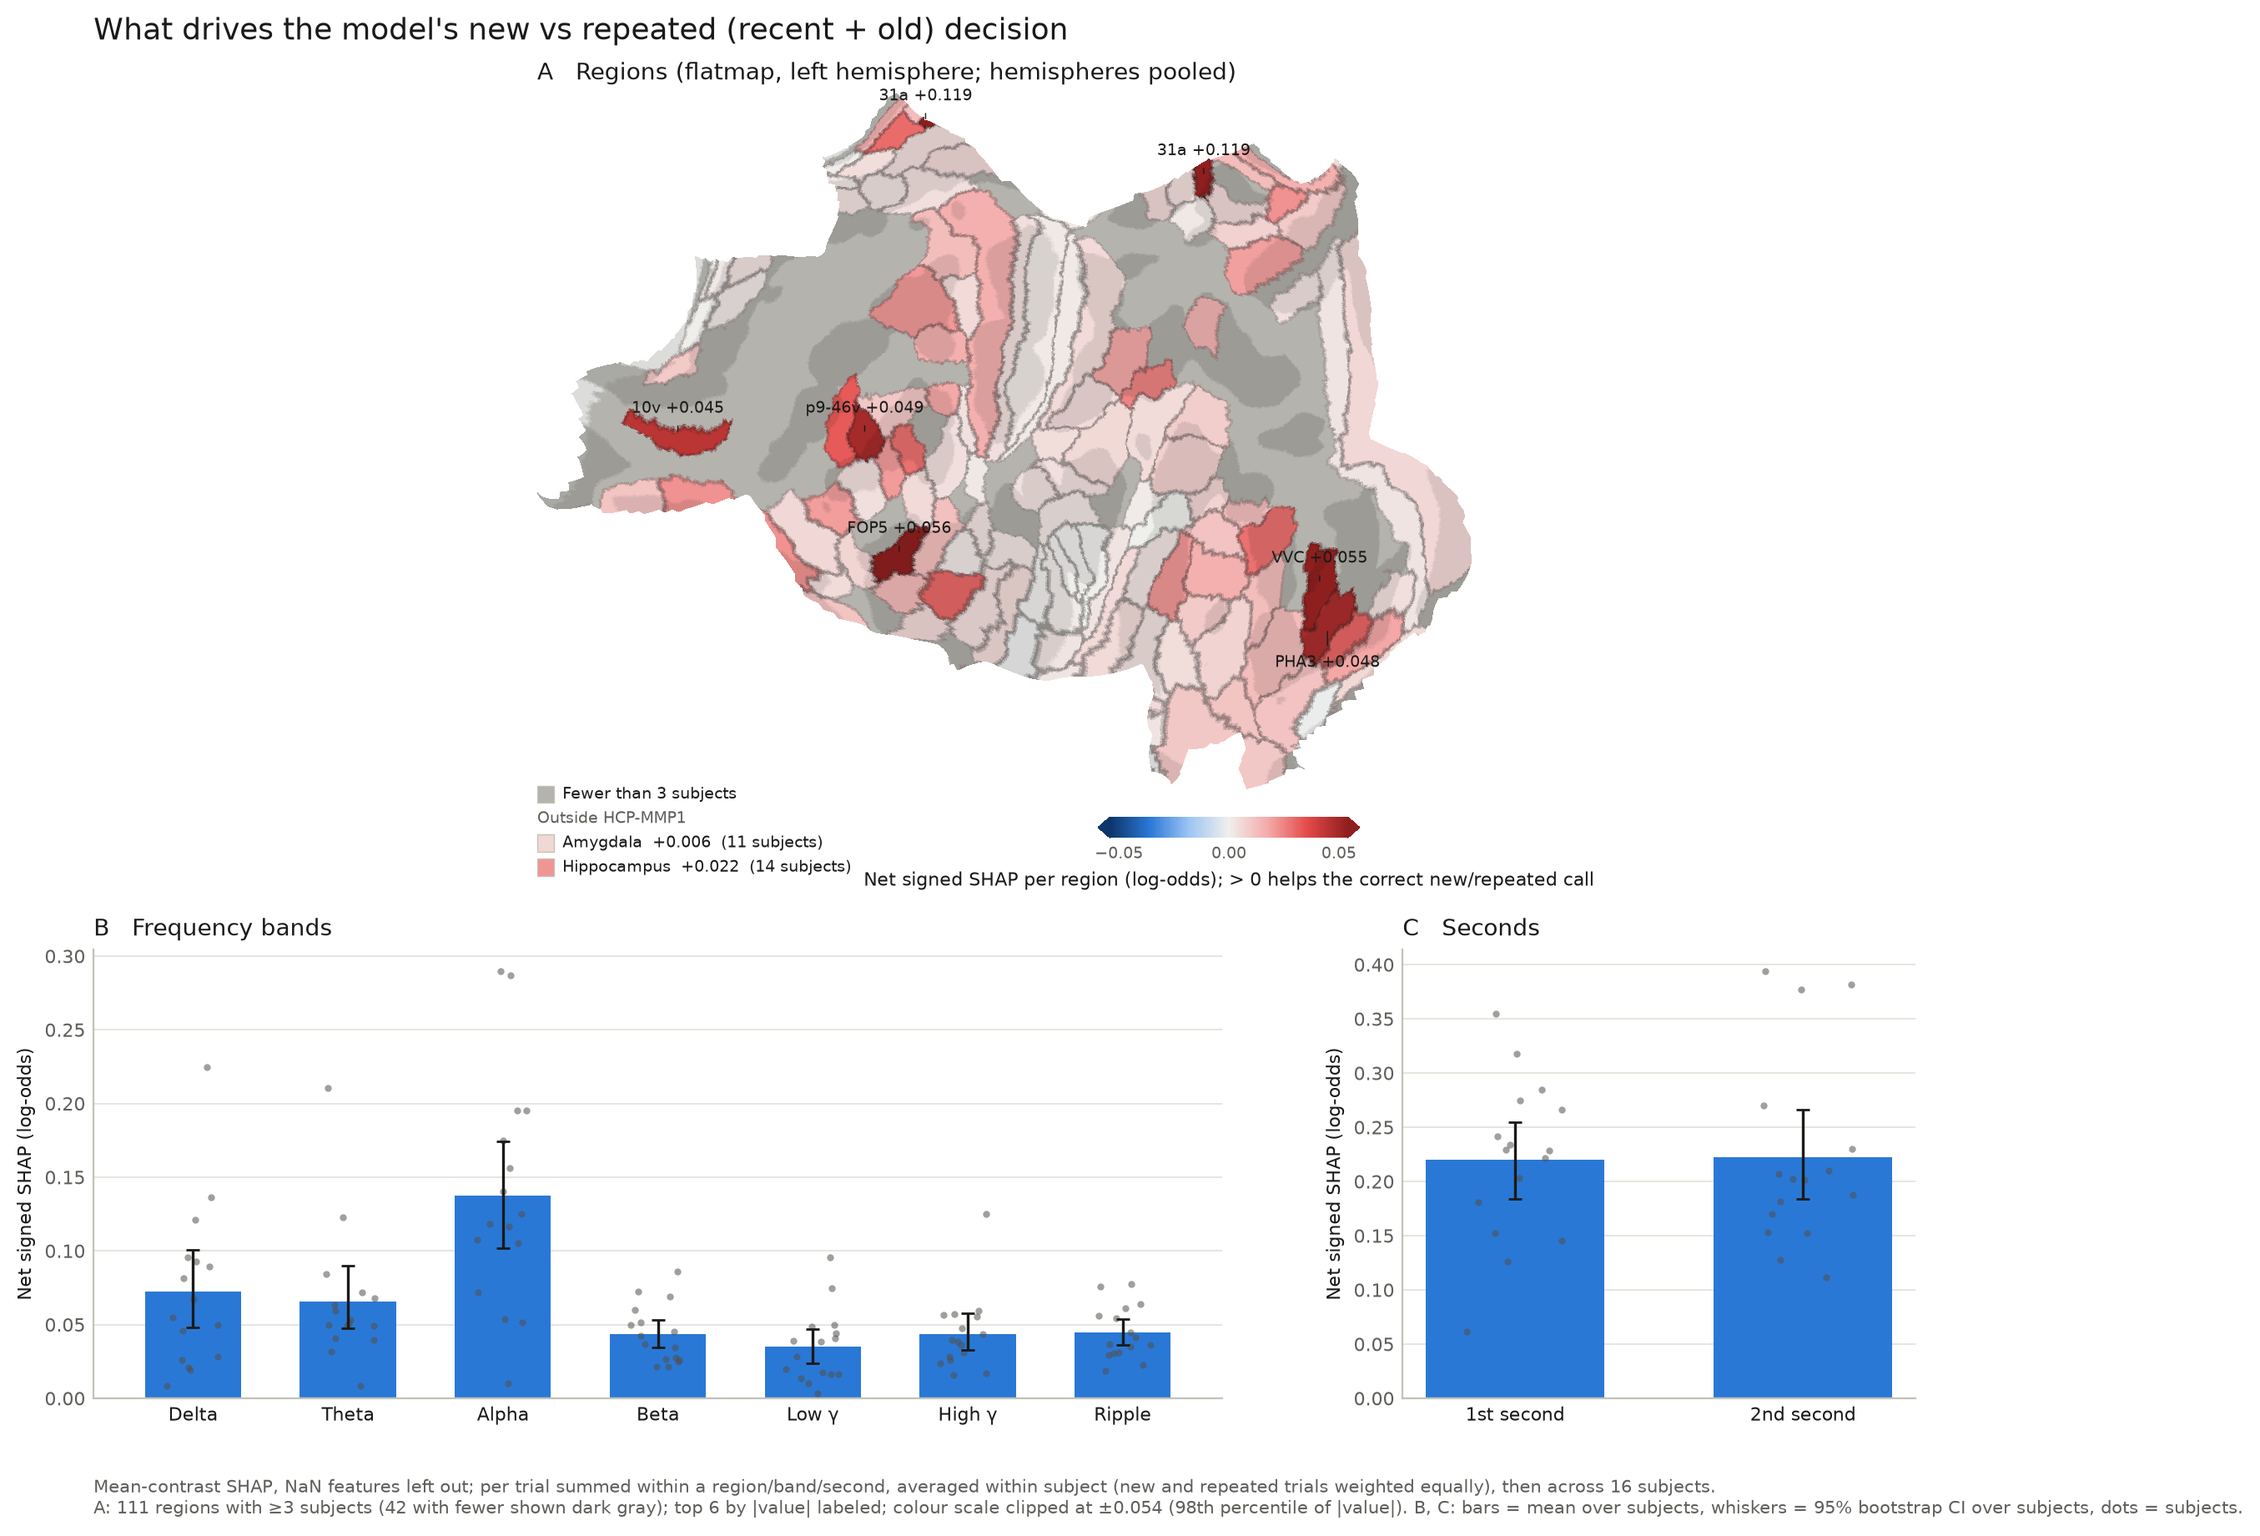
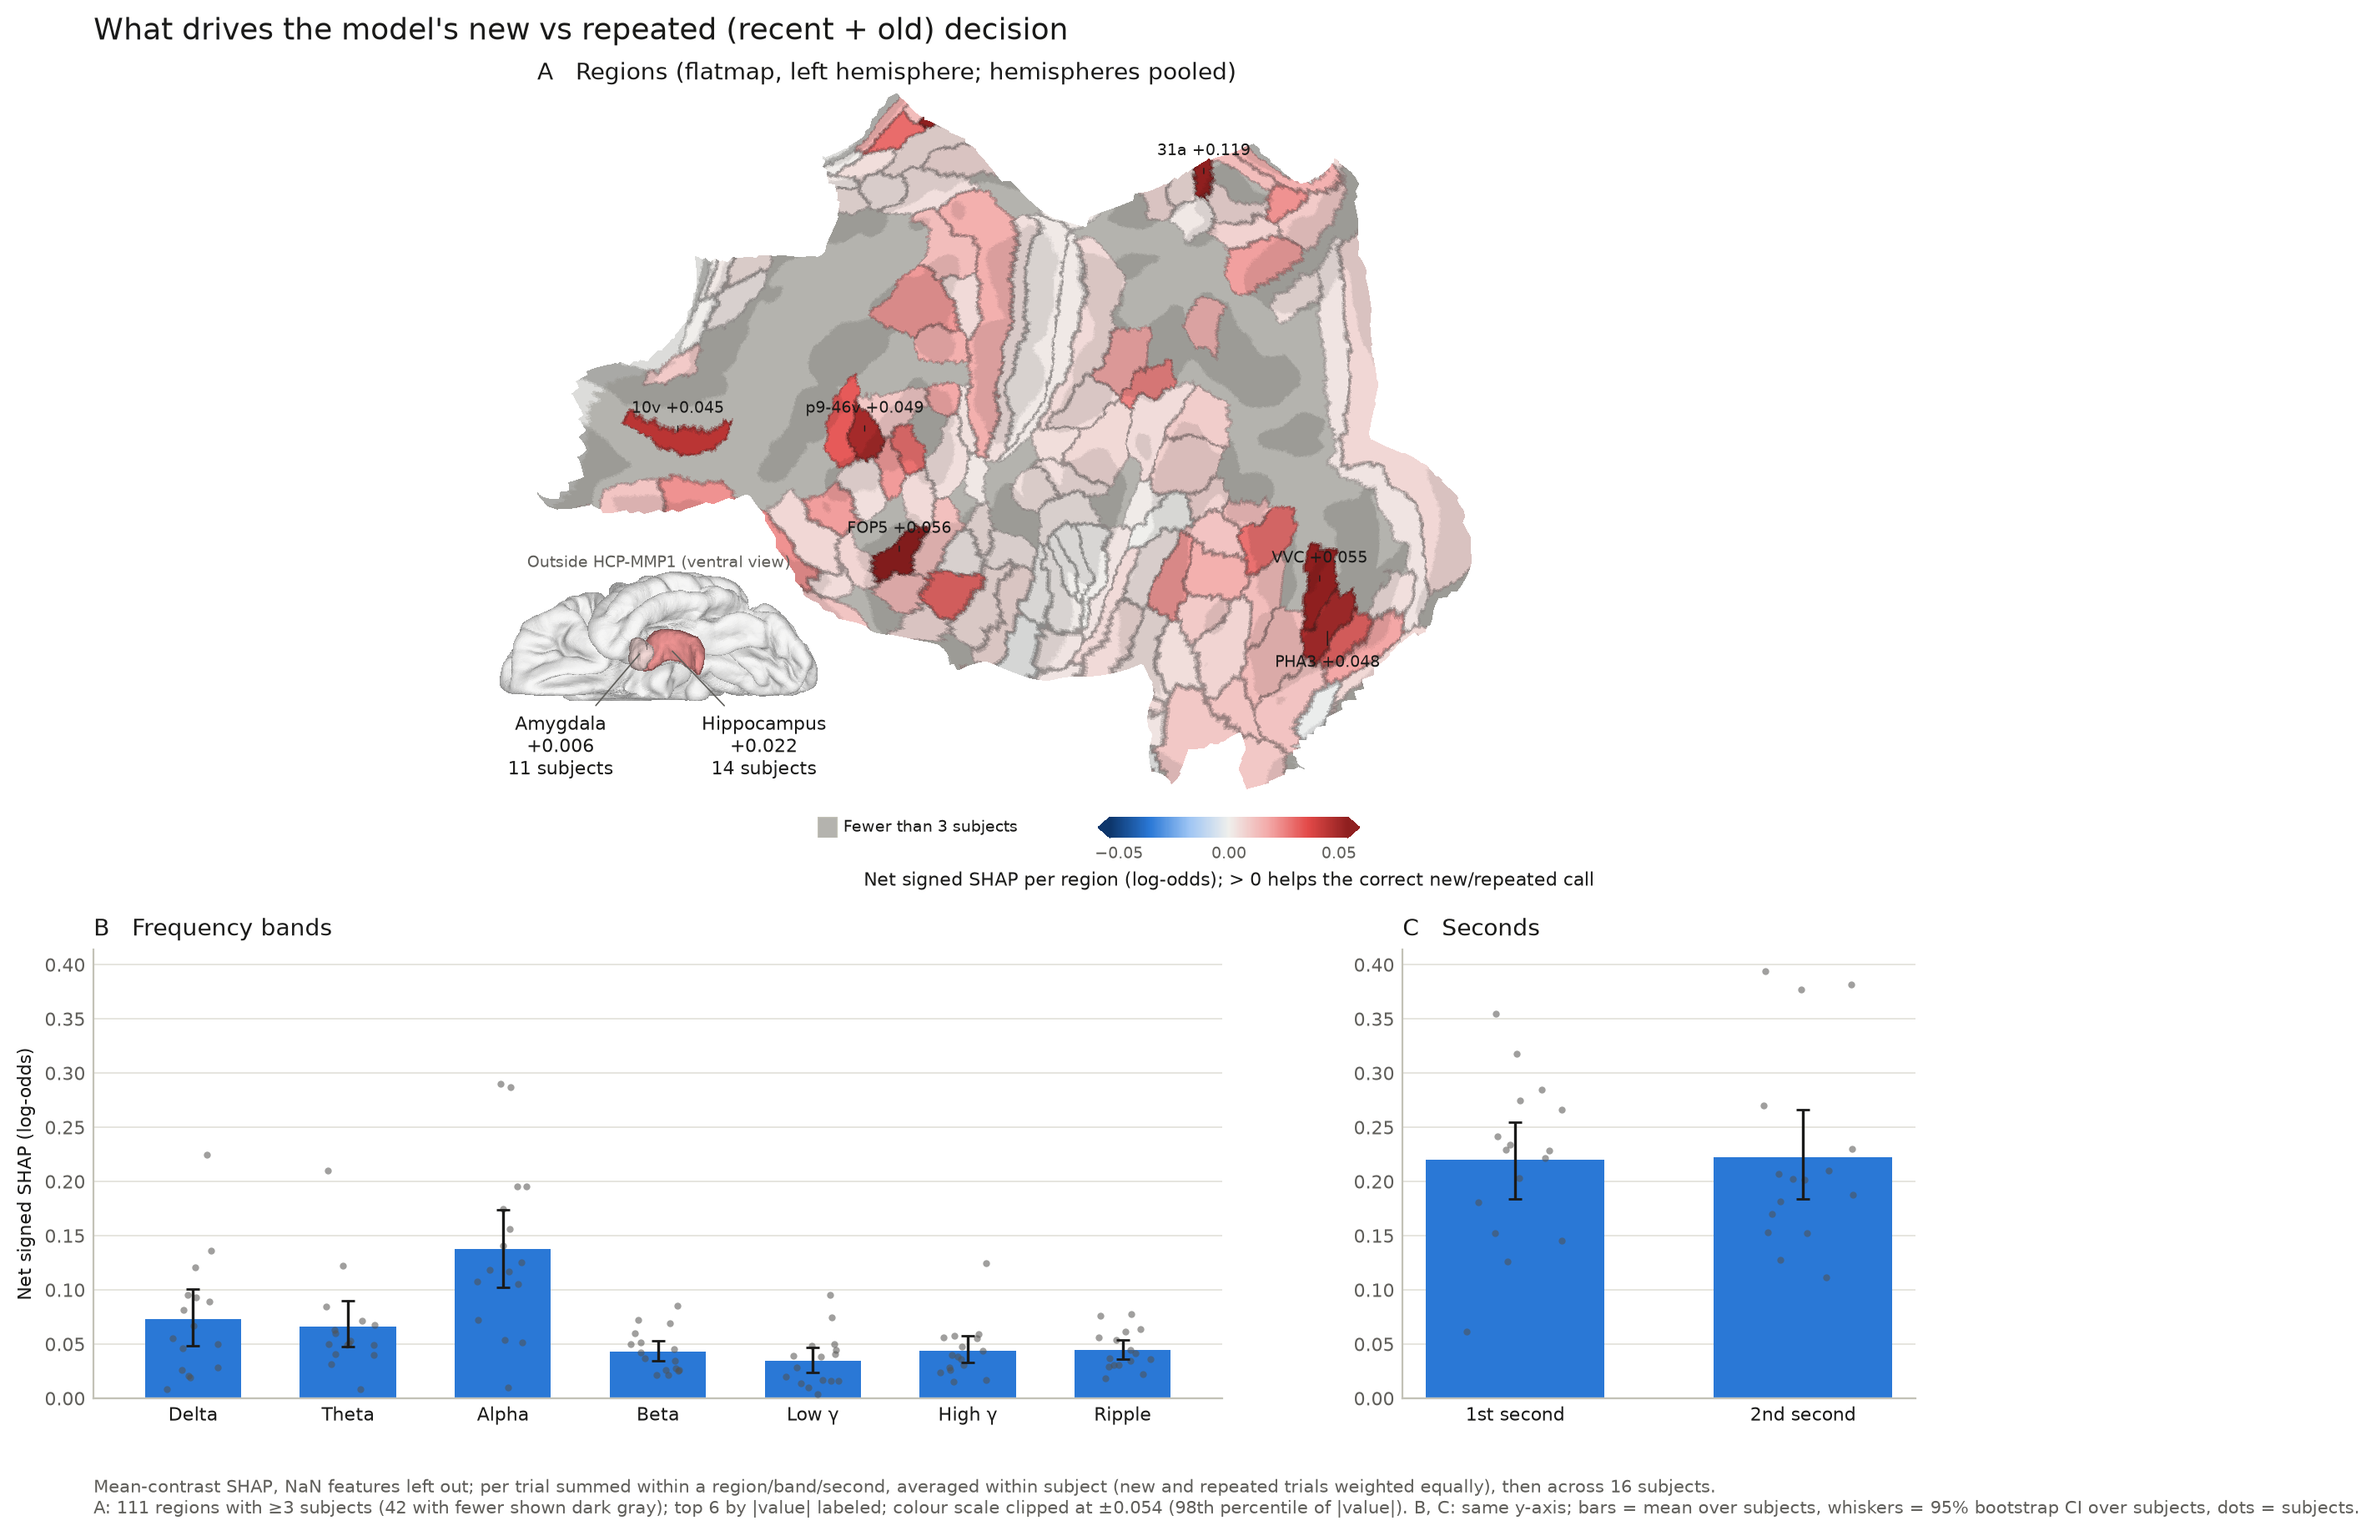
Refine new vs repeated figure: single labels, subcortical inset, shared y-axis
Label a parcel split by the flatmap cut only on its largest piece, draw
amygdala and hippocampus as a ventral glass-brain inset in the flatmap's
bottom-left corner on the map's colour scale, and give the band and
second bar plots one shared y-axis.

Claude-Session: https://claude.ai/code/session_01E7t6Tc3gYXv9BQMm3eai5Y

diff --git a/shap analysis/plot_new_vs_repeated.py b/shap analysis/plot_new_vs_repeated.py
@@ -16,10 +16,13 @@ Aggregation, for each of region / band / second:
      bootstrap confidence interval over subjects.
 
 Panel A: HCP-MMP1 flatmap of the region means, regions covered by at least
---min-subjects subjects only (others gray). Regions outside HCP-MMP1
-(Amygdala, Hippocampus, Putamen) are shown as swatches under the map.
+--min-subjects subjects only (others gray). Amygdala and hippocampus, which
+are not HCP-MMP1 parcels, are drawn on the same colour scale in a ventral
+glass-brain inset at the map's bottom left. A parcel split by the flatmap cut
+is labeled once, on its largest piece.
 Panel B: net contribution of the seven frequency bands. Panel C: of the two
-seconds. Dots in B and C are the individual subjects.
+seconds. B and C share one y-axis. Dots in B and C are the individual
+subjects.
 
 Written to --out-dir:
   new_vs_repeated_contributions.png
@@ -44,7 +47,8 @@ from scipy.sparse.csgraph import connected_components
 HERE = Path(__file__).resolve().parent
 REPO = HERE.parent
 sys.path.insert(0, str(REPO / "electrode coverages"))
-from plot_electrode_coverage import (GYRUS, INK, INK_MUTED, SULCUS, draw_flat,  # noqa: E402
+from plot_electrode_coverage import (ASEG_LABELS, GYRUS, INK, INK_MUTED, SULCUS,  # noqa: E402
+                                     aseg_meshes, draw_flat, draw_glass_brain,
                                      fetch_fsaverage, orient_flatmap, parcel_border,
                                      read_patch)
 from signed_shap import NEW_CATEGORY, signed_shap  # noqa: E402
@@ -81,11 +85,10 @@ def pool(subj: pd.DataFrame, n_boot: int, seed: int = 0) -> pd.DataFrame:
     return pd.DataFrame(rows).T.astype({"n_subjects": int})
 
 
-def parcel_pieces(mask: np.ndarray, faces: np.ndarray, min_share=0.05):
-    """Centres of the connected pieces of a parcel on the flat patch.
+def largest_piece(mask: np.ndarray, faces: np.ndarray) -> np.ndarray:
+    """Vertices of the largest connected piece of a parcel on the flat patch.
 
-    The flatmap cut can split a parcel (e.g. 31a); every piece holding at least
-    min_share of its vertices gets its own label."""
+    The flatmap cut can split a parcel (e.g. 31a); it is labeled only once."""
     idx = np.flatnonzero(mask)
     lut = np.full(len(mask), -1)
     lut[idx] = np.arange(len(idx))
@@ -93,8 +96,7 @@ def parcel_pieces(mask: np.ndarray, faces: np.ndarray, min_share=0.05):
     edges = np.r_[f[:, [0, 1]], f[:, [1, 2]]]
     graph = coo_matrix((np.ones(len(edges)), (edges[:, 0], edges[:, 1])), shape=(len(idx),) * 2)
     _, comp = connected_components(graph, directed=False)
-    sizes = np.bincount(comp)
-    return [idx[comp == c] for c in np.flatnonzero(sizes >= min_share * len(idx))]
+    return idx[comp == np.bincount(comp).argmax()]
 
 
 def style_axis(ax):
@@ -186,15 +188,26 @@ def main():
     top = cortical["mean"].abs().nlargest(6).index
     placed = []
     for r in top:
-        for piece in parcel_pieces(parcel[vno] == r, patch_faces):
-            pts = patch_xy[piece]
-            xy = pts[np.argmin(((pts - pts.mean(0)) ** 2).sum(1))]   # a vertex inside the piece
-            # label above the parcel, or below it when a label above would collide
-            crowded = any(np.hypot(*(xy - q)) < 30 and q[1] >= xy[1] for q in placed)
-            placed.append(xy)
-            ax.annotate(f"{r} {cortical.at[r, 'mean']:+.3f}", xy, xytext=(0, -12 if crowded else 10),
-                        textcoords="offset points", ha="center", va="top" if crowded else "baseline",
-                        fontsize=7, color=INK, arrowprops=dict(arrowstyle="-", color=INK, lw=0.5))
+        pts = patch_xy[largest_piece(parcel[vno] == r, patch_faces)]
+        xy = pts[np.argmin(((pts - pts.mean(0)) ** 2).sum(1))]   # a vertex inside the piece
+        # label above the parcel, or below it when a label above would collide
+        crowded = any(np.hypot(*(xy - q)) < 30 and q[1] >= xy[1] for q in placed)
+        placed.append(xy)
+        ax.annotate(f"{r} {cortical.at[r, 'mean']:+.3f}", xy, xytext=(0, -12 if crowded else 10),
+                    textcoords="offset points", ha="center", va="top" if crowded else "baseline",
+                    fontsize=7, color=INK, arrowprops=dict(arrowstyle="-", color=INK, lw=0.5))
+
+    # Amygdala / hippocampus in a ventral glass brain, in the map's empty bottom-left corner.
+    subcortical = [r for r in outside.index if r in ASEG_LABELS]
+    if subcortical:
+        ghost = np.where((sulc > 0)[:, None], SULCUS, GYRUS) * 0.25 + 0.75
+        meshes = aseg_meshes(paths["aseg.mgz"], subcortical)
+        colors = {r: np.array(DIVERGING(norm(outside.at[r, "mean"]))[:3]) for r in subcortical}
+        names = {r: f"{r}\n{outside.at[r, 'mean']:+.3f}\n{int(outside.at[r, 'n_subjects'])} subjects"
+                 for r in subcortical}
+        sub = ax.inset_axes([-0.04, 0.0, 0.34, 0.38])
+        draw_glass_brain(sub, pial_v, faces, ghost, meshes, colors, "Ventral", names)
+        sub.set_title("Outside HCP-MMP1 (ventral view)", fontsize=7, color=INK_MUTED, pad=2)
 
     cax = ax.inset_axes([0.6, -0.07, 0.28, 0.03])
     cb = fig.colorbar(plt.cm.ScalarMappable(norm=norm, cmap=DIVERGING), cax=cax,
@@ -204,27 +217,19 @@ def main():
     cb.set_label("Net signed SHAP per region (log-odds); > 0 helps the correct new/repeated call",
                  fontsize=8, color=INK)
 
-    # Legend on the left: no-data gray, then the regions outside HCP-MMP1.
-    rows = [("swatch", NO_DATA_GYRUS, f"Fewer than {args.min_subjects} subjects")]
-    if len(outside):
-        rows.append(("header", None, "Outside HCP-MMP1"))
-        rows += [("swatch", DIVERGING(norm(row["mean"]))[:3],
-                  f"{r}  {row['mean']:+.3f}  ({int(row['n_subjects'])} subjects)")
-                 for r, row in outside.iterrows()]
-    leg = ax.inset_axes([0.0, -0.13, 0.3, 0.14])
-    leg.set_xlim(0, 1); leg.set_ylim(-len(rows) + 0.5, 0.5); leg.axis("off")
-    for i, (kind, color, text) in enumerate(rows):
-        if kind == "header":
-            leg.text(0, -i, text, fontsize=7, color=INK_MUTED, va="center")
-            continue
-        leg.add_patch(plt.Rectangle((0, -i - 0.35), 0.06, 0.7, facecolor=color, edgecolor=AXIS, lw=0.5))
-        leg.text(0.09, -i, text, fontsize=7, color=INK, va="center")
+    # Swatch for parcels below the subject threshold, left of the colour bar.
+    leg = ax.inset_axes([0.3, -0.07, 0.25, 0.03])
+    leg.set_xlim(0, 1); leg.set_ylim(0, 1); leg.axis("off")
+    leg.add_patch(plt.Rectangle((0, 0), 0.08, 1, facecolor=NO_DATA_GYRUS, edgecolor=AXIS, lw=0.5))
+    leg.text(0.11, 0.5, f"Fewer than {args.min_subjects} subjects", fontsize=7, color=INK, va="center")
 
-    bar_panel(fig.add_subplot(gs[1, 0]), subj["band"], stats["band"], BANDS,
+    ax_b = fig.add_subplot(gs[1, 0])
+    bar_panel(ax_b, subj["band"], stats["band"], BANDS,
               [b.replace("GammaL", "Low γ").replace("GammaH", "High γ") for b in BANDS],
               "B   Frequency bands")
-    bar_panel(fig.add_subplot(gs[1, 1]), subj["second"], stats["second"], [1, 2],
-              ["1st second", "2nd second"], "C   Seconds")
+    ax_c = fig.add_subplot(gs[1, 1], sharey=ax_b)
+    bar_panel(ax_c, subj["second"], stats["second"], [1, 2], ["1st second", "2nd second"], "C   Seconds")
+    ax_c.set_ylabel("")
 
     n_subj = len(subj["band"])
     fig.suptitle("What drives the model's new vs repeated (recent + old) decision",
@@ -235,7 +240,7 @@ def main():
              f"A: {len(shown)} regions with ≥{args.min_subjects} subjects "
              f"({len(region) - len(shown)} with fewer shown dark gray); top 6 by |value| labeled; "
              f"colour scale clipped at ±{vmax:.3f} (98th percentile of |value|). "
-             f"B, C: bars = mean over subjects, whiskers = 95% bootstrap CI over subjects, dots = subjects.",
+             f"B, C: same y-axis; bars = mean over subjects, whiskers = 95% bootstrap CI over subjects, dots = subjects.",
              fontsize=7.5, color=INK_MUTED)
     fig.savefig(args.out_dir / "new_vs_repeated_contributions.png", dpi=200, bbox_inches="tight")
     print("wrote", args.out_dir / "new_vs_repeated_contributions.png")
